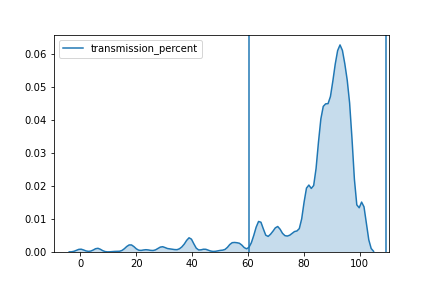
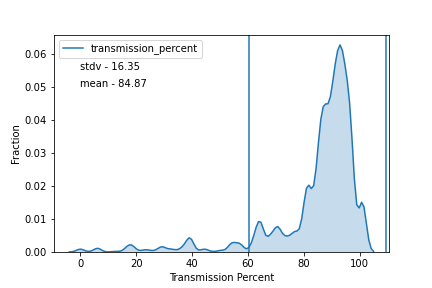
stdv and mean added to graph in lomdi

Changed region(s): [[0.3912, 0.9375, 0.6319, 1.0], [0.1806, 0.2188, 0.331, 0.3125], [0.0301, 0.4375, 0.0602, 0.5625]]

diff --git a/combine_data.py b/combine_data.py
@@ -1,0 +1,136 @@
+import pandas as pd
+import numpy as np
+
+main_df = pd.read_csv('hare.csv')
+main_df = main_df.dropna()
+
+main_df['day'] = main_df['day'].astype(int).astype(str)
+main_df['month'] = main_df['month'].astype(int).astype(str)
+main_df['year'] = main_df['year'].astype(int).astype(str)
+main_df = main_df.reset_index(drop=True)
+
+temp_df = pd.read_csv('air_temp.csv')
+temp_df = temp_df.dropna()
+temp_df['measured_on'] = temp_df['measured_on'].astype(str)
+temp_df['measured_on'] = temp_df['measured_on'].apply(lambda x: str(int(x[3:5]))+'-'+str(x[6:]))
+temp_df = temp_df.set_index('measured_on')
+
+soil_temp_df = pd.read_csv('soil_temp.csv')
+soil_temp_df = soil_temp_df.dropna()
+soil_temp_df['measured_on'] = soil_temp_df['measured_on'].astype(str)
+soil_temp_df['measured_on'] = soil_temp_df['measured_on'].apply(lambda x: str(int(x[3:5]))+'-'+str(x[6:]))
+soil_temp_df = soil_temp_df.set_index('measured_on')
+
+rain_df = pd.read_csv('precipitation.csv')
+rain_df = rain_df.dropna()
+rain_df['measured_on'] = rain_df['measured_on'].astype(str)
+rain_df['measured_on'] = rain_df['measured_on'].apply(lambda x: str(int(x[3:5]))+'-'+str(x[6:]))
+rain_df = rain_df.set_index('measured_on')
+
+aerosol_df = pd.read_csv('aerosol.csv')
+aerosol_df = aerosol_df.dropna()
+aerosol_df['measured_on'] = aerosol_df['measured_on'].astype(str)
+aerosol_df['measured_on'] = aerosol_df['measured_on'].apply(lambda x: str(int(x[3:5]))+'-'+str(x[6:]))
+aerosol_df = aerosol_df.drop_duplicates(subset=['measured_on','latitude', 'longitude'])
+aerosol_df = aerosol_df.set_index('measured_on')
+
+from math import cos, asin, sqrt
+
+def distance(lat1, lon1, lat2, lon2):
+    p = 0.017453292519943295
+    a = 0.5 - cos((lat2-lat1)*p)/2 + cos(lat1*p)*cos(lat2*p) * (1-cos((lon2-lon1)*p)) / 2
+    return 12742 * asin(sqrt(a))
+
+def closest(data, v):
+    return min(data, key=lambda p: distance(v['decimalLatitude'],v['decimalLongitude'],p['latitude'],p['longitude']))
+
+for i in range (main_df.shape[0]):
+    time = main_df.iloc[i][5] + '-' + main_df.iloc[i][6]
+    v = main_df.iloc[i][['decimalLatitude','decimalLongitude']].to_dict()
+    
+    try:
+        time_rain = rain_df.loc[time]
+        rain_arr = time_rain[['latitude','longitude']].to_dict('records')
+        closest_rain_point = closest(rain_arr, v)
+        rain = time_rain[time_rain['latitude']==closest_rain_point['latitude']]['precipitation monthlies'][0]
+        main_df.at[i, 'rain'] = rain
+    except:
+        pass
+    
+    try:
+        time_temp = temp_df.loc[time]
+        temp_arr = time_temp[['latitude','longitude']].to_dict('records')
+        closest_temp_point = closest(temp_arr, v)
+        temp = time_temp[time_temp['latitude']==closest_temp_point['latitude']]['average temp (deg C)'][0]
+        main_df.at[i, 'temp'] = temp
+    except:
+        pass
+    
+    try:
+        time_soil_temp = soil_temp_df.loc[time]
+        soil_temp_arr = time_soil_temp[['latitude','longitude']].to_dict('records')
+        closest_soil_temp_point = closest(soil_temp_arr, v)
+        soil_temp = time_soil_temp[time_soil_temp['latitude']==closest_soil_temp_point['latitude']]['average temp (deg C)'][0]
+        main_df.at[i, 'soil_temp'] = soil_temp
+    except:
+        pass
+    
+    try:
+        time_aerosol = aerosol_df.loc[time]
+        aerosol_arr = time_aerosol[['latitude','longitude']].to_dict('records')
+        closest_aerosol_point = closest(aerosol_arr, v)
+        optical_thickness = time_aerosol[time_aerosol['latitude']==closest_aerosol_point['latitude']]['optical thickness'][0]
+        transmission_percent = time_aerosol[time_aerosol['latitude']==closest_aerosol_point['latitude']]['transmission percent'][0]
+        main_df.at[i, 'optical_thickness'] = optical_thickness
+        main_df.at[i, 'transmission_percent'] = transmission_percent
+    except:
+        pass
+    
+main_df = main_df.dropna()
+main_df = main_df.reset_index(drop=True)
+
+temp_range = [np.mean(main_df['temp'])-1.5*np.std(main_df['temp']),np.mean(main_df['temp'])+1.5*np.std(main_df['temp'])]
+soil_temp_range = [np.mean(main_df['soil_temp'])-1.5*np.std(main_df['soil_temp']),np.mean(main_df['soil_temp'])+1.5*np.std(main_df['soil_temp'])]
+rain_range = [np.mean(main_df['rain'])-1.5*np.std(main_df['rain']),np.mean(main_df['rain'])+1.5*np.std(main_df['rain'])]
+optical_thickness_range = [np.mean(main_df['optical_thickness'])-1.5*np.std(main_df['optical_thickness']),np.mean(main_df['optical_thickness'])+1.5*np.std(main_df['optical_thickness'])]
+transmission_percent_range = [np.mean(main_df['transmission_percent'])-1.5*np.std(main_df['transmission_percent']),np.mean(main_df['transmission_percent'])+1.5*np.std(main_df['transmission_percent'])]
+
+import matplotlib.pyplot as plt
+import seaborn as sns
+
+graph1 = sns.kdeplot(data=main_df['temp'], shade=True)
+graph1.axvline(temp_range[0])
+graph1.axvline(temp_range[1])
+graph1.set_xlabel("Temprature")
+graph1.set_ylabel("Fraction")
+plt.savefig('kde_temp_hare.png')
+plt.show()
+
+graph2 = sns.kdeplot(data=main_df['soil_temp'], shade=True)
+graph2.axvline(soil_temp_range[0])
+graph2.axvline(soil_temp_range[1])
+plt.xlabel("Soil Temprature")
+plt.ylabel("Fraction")
+plt.savefig('soil_temp_hare.png')
+plt.show()
+
+graph = sns.kdeplot(data=main_df['optical_thickness'], shade=True)
+graph.axvline(optical_thickness_range[0])
+graph.axvline(optical_thickness_range[1])
+plt.xlabel("Optical Thickness")
+plt.ylabel("Fraction")
+plt.savefig('optical_hare.png')
+plt.show()
+
+graph = sns.kdeplot(data=main_df['transmission_percent'], shade=True)
+graph.axvline(transmission_percent_range[0])
+graph.axvline(transmission_percent_range[1])
+plt.xlabel("Transmission Percent")
+plt.ylabel("Fraction")
+plt.savefig('trans_hare.png')
+plt.show()
+
+plt.hist(main_df['temp'])
+plt.xlabel("Temprature")
+plt.ylabel("No. of Occurrences in Data")
+plt.savefig('hist_temp_hare.png')

diff --git a/space_pred.py b/space_pred.py
@@ -1,0 +1,31 @@
+from PIL import Image 
+import numpy as np 
+import pandas as pd
+
+img = Image.open("map0.25.png") 
+numpydata = np.asarray(img)
+
+arr = numpydata.copy()
+
+vege_df = pd.read_csv('vege.csv',header=None)
+rain_df = pd.read_csv('rain.csv',header=None)
+temp_df = pd.read_csv('temp.csv',header=None)
+optical_df = pd.read_csv('optical.csv',header=None)
+
+helper_df = pd.read_csv('helper.csv',header=None)
+
+rain_land = helper_df*rain_df
+optical_land = helper_df*optical_df
+temp_land = helper_df*temp_df
+vege_land = helper_df*vege_df
+
+for i in range (helper_df.shape[0]):
+    for j in range (helper_df.shape[1]):
+        try:
+            if 0.5<vege_land[j][i] and 1.641749188574094<temp_land[j][i]<26.505227476389237 and 0<optical_land[j][i]<0.5:
+                arr[i,j] = np.array([255,255,255,255])
+        except:
+            pass
+
+import matplotlib.pyplot as plt
+plt.imsave('inter_map.png', arr)

diff --git a/helper.py b/helper.py
@@ -1,0 +1,26 @@
+import pandas as pd
+import numpy as np
+
+df = pd.read_csv('vege.csv',header=None)
+df_copy = df.copy()
+
+for i in range (df.shape[0]):
+    for j in range (df.shape[1]):
+        if df[j][i] == 99999:
+            df_copy[j][i] =0
+        else:
+            df_copy[j][i] =100
+            
+arr = np.array(df_copy)
+
+import matplotlib.pyplot as plt
+plt.imsave('base_map.png', arr)
+
+for i in range (df.shape[0]):
+    for j in range (df.shape[1]):
+        if df[j][i] == 99999:
+            df[j][i] =np.nan
+        else:
+            df[j][i] =1
+
+df.to_csv('helper.csv',index=None)
